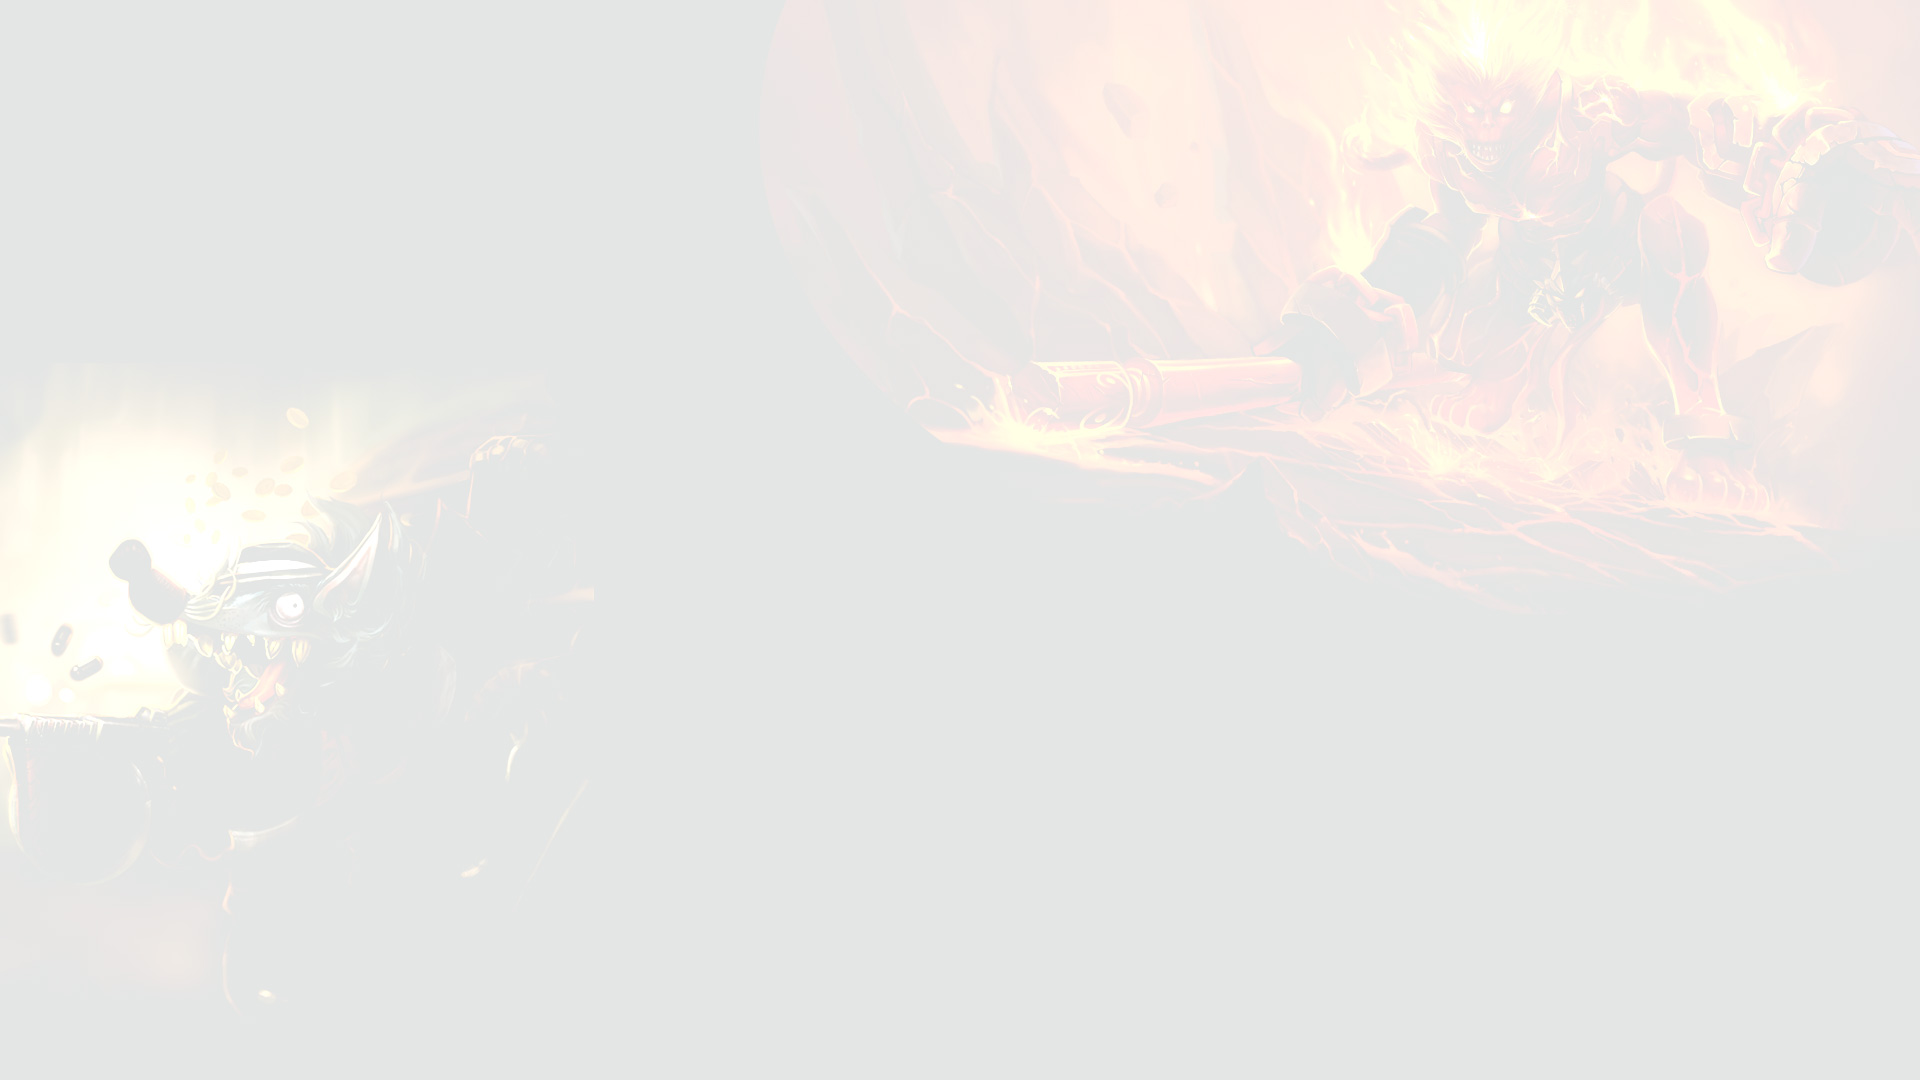
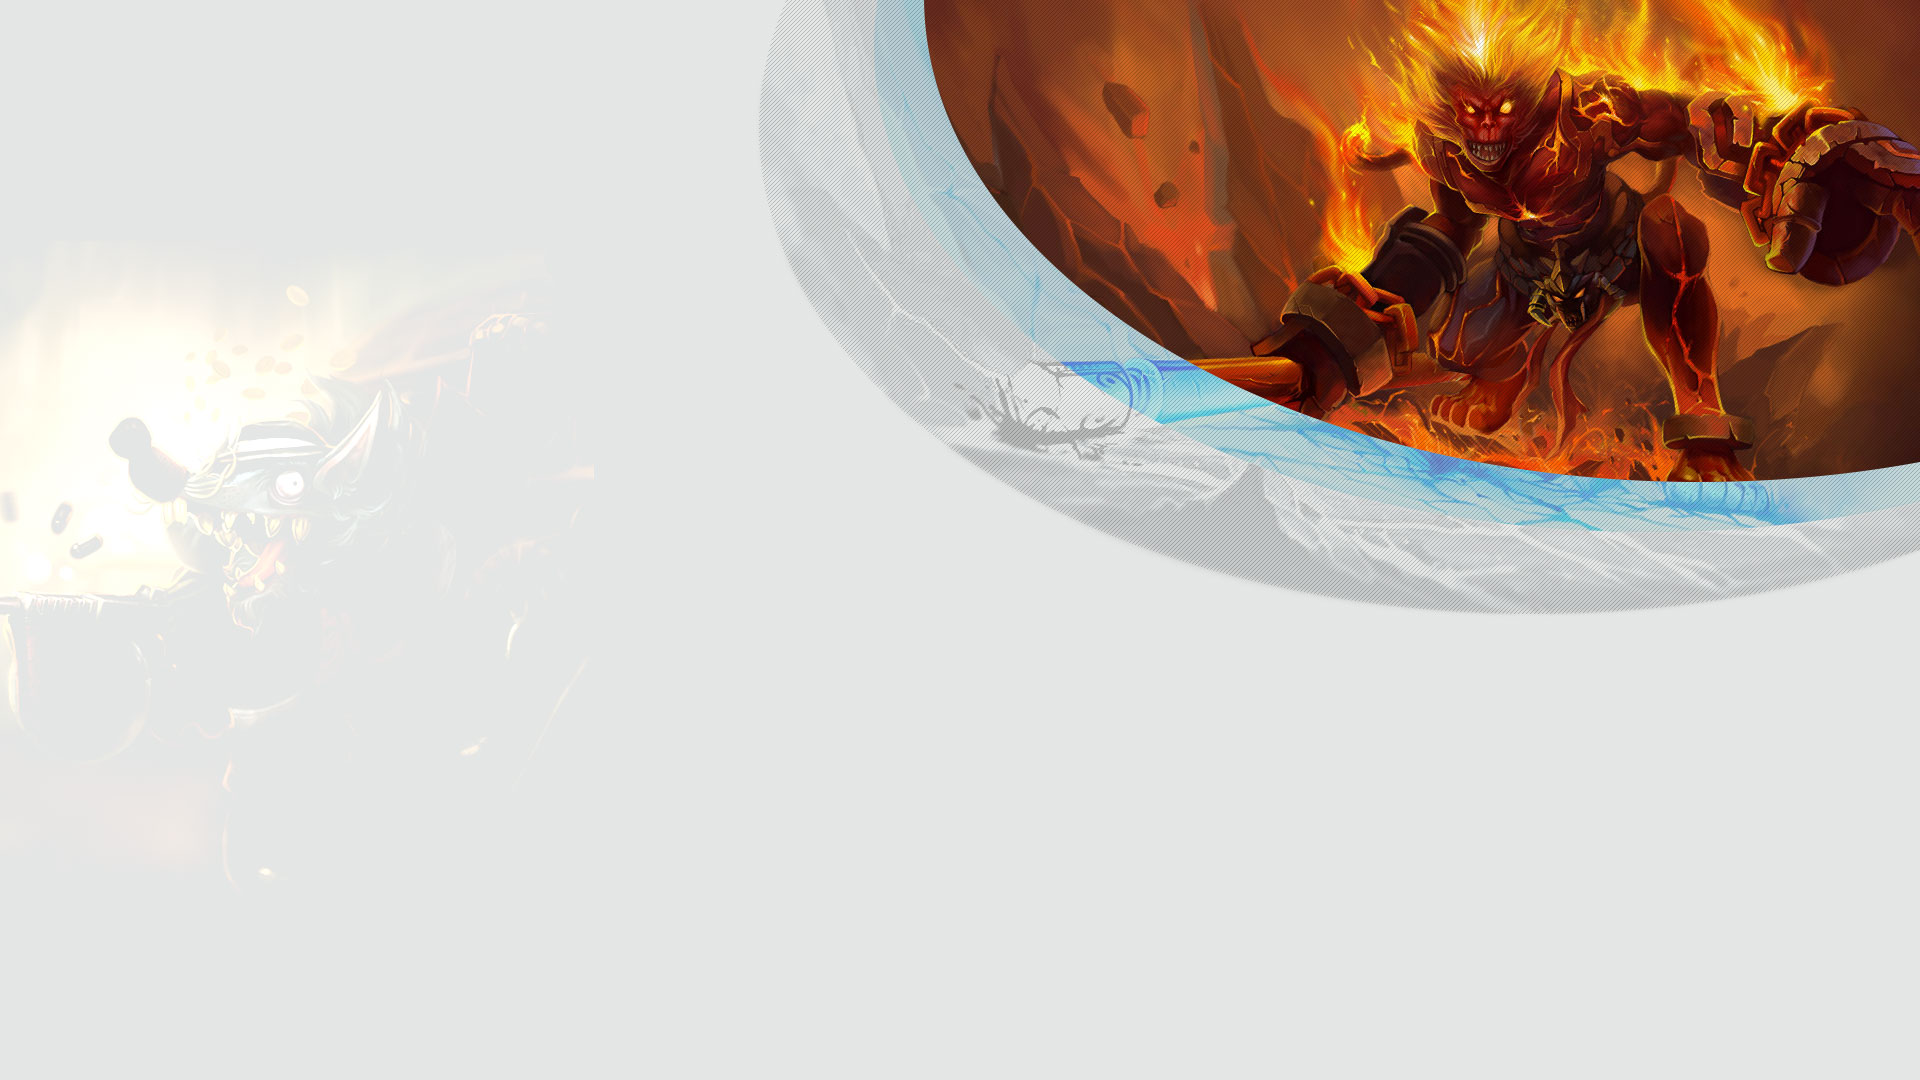
+ Correction d'une faute d'orthographe pour le nombre de commentaire (ajout d'un s seulement si le nombre est >= 2) + Mise à jour du background général du site et mise à jour du style css du layout

diff --git a/web/medias/css/mvnerds-bootstrap.css b/web/medias/css/mvnerds-bootstrap.css
@@ -606,14 +606,22 @@ div.container.header div.social-container,
 div.container.header div.slogan {
   display: inline-block;
 }
-div.container.header div.slogan img {
+div.container.header div.slogan {
+  background-color: rgba(228, 230, 229, 0.8);
+  padding: 0 5px 0 0;
+}
+div.container.header div.slogan a {
+  display: inline-block;
+  vertical-align: top;
+}
+div.container.header div.slogan a img {
   margin: 0 5px 0 0;
 }
 div.container.header div.slogan p {
   display: inline-block;
   line-height: 1.2em;
   margin: 0;
-  padding: 0;
+  padding: 0 5px 0 0;
 }
 div.container.header div.slogan p span.location {
   font-weight: bold;
@@ -625,7 +633,7 @@ div.container.header div.slogan p span.location a:hover {
   text-decoration: underline;
 }
 div.container.header div.slogan span.brand {
-  color: #aaa;
+  color: #666;
 }
 div.container.header div.social-container {
   position: absolute;
@@ -635,13 +643,13 @@ div.container.header div.social-container p div.wrapper-simple {
   display: inline-block;
 }
 div.container.header div.social-container p a {
-  border: 1px solid #999;
-  color: #999;
+  border: 1px solid white;
+  color: white;
   display: inline-block;
   font-size: 18px;
   font-weight: bold;
   height: 27px;
-  margin: 0 0 0 5px;
+  margin: 0;
   padding: 3px;
   text-align: center;
   text-transform: uppercase;
@@ -651,7 +659,6 @@ div.container.header div.social-container p a.twitter-link {
   width: 21px;
 }
 div.container.header div.social-container p a.switch-locale {
-  background-color: #aaa;
   color: #fff;
   padding: 3px 5px;
 }
@@ -703,7 +710,7 @@ div.container.champion-rotation div.champion-rotation-content div.free-champions
 }
 div.container.champion-rotation div.champion-rotation-content div.free-champions a div {
   margin: 0 2px;
-  opacity: .5;
+  opacity: .7;
 }
 div.container.champion-rotation div.champion-rotation-content div.free-champions a div:hover {
   opacity: 1;
@@ -713,11 +720,13 @@ div.container.champion-rotation div.champion-rotation-content div.free-champions
   transition: opacity 0.2s linear;
 }
 div.container.champion-rotation div.champion-search-input {
+  background-color: rgba(228, 230, 229, 0.85);
   position: absolute;
   right: 0;
-  top: 9px;
+  top: 7px;
 }
 div.container.champion-rotation div.champion-search-input input[type="text"] {
+  border: 3px solid #666;
   font-size: 16px;
   padding-right: 26px;
 }
@@ -726,7 +735,7 @@ div.container.champion-rotation div.champion-search-input i {
   font-size: 22px;
   position: absolute;
   right: 6px;
-  top: 2px;
+  top: 4px;
 }
 div#announcement-container {
   border: 1px solid #db4a38;
@@ -737,7 +746,7 @@ div#announcement-container {
   text-align: center;
 }
 div.container.main-container {
-  background-color: rgba(228, 230, 229, 0.5);
+  background-color: rgba(228, 230, 229, 0.85);
   min-height: 438px;
   padding: 20px 10px;
 }

diff --git a/web/medias/less/mvnerds/mvnerds-site-header.less b/web/medias/less/mvnerds/mvnerds-site-header.less
@@ -7,15 +7,23 @@ div.container.header {
 	}
 
 	div.slogan {
-		img {
-			margin: 0 5px 0 0;
+		background-color: rgba(228,230,229,.8);
+		padding: 0 5px 0 0;
+
+		a {
+			display: inline-block;
+			vertical-align: top;
+
+			img {
+				margin: 0 5px 0 0;
+			}
 		}
 
 		p {
 			display: inline-block;
 			line-height: 1.2em;
 			margin: 0;
-			padding: 0;
+			padding: 0 5px 0 0;
 
 			span.location {
 				font-weight: bold;
@@ -31,7 +39,7 @@ div.container.header {
 		}
 
 		span.brand {
-			color: #aaa;
+			color: #666;
 		}
 	}
 
@@ -45,13 +53,13 @@ div.container.header {
 			}
 
 			a {
-				border: 1px solid #999;
-				color: #999;
+				border: 1px solid white;
+				color: white;
 				display: inline-block;
 				font-size: 18px;
 				font-weight: bold;
 				height: 27px;
-				margin: 0 0 0 5px;
+				margin: 0;
 				padding: 3px;
 				text-align: center;
 				text-transform: uppercase;
@@ -61,7 +69,6 @@ div.container.header {
 				}
 
 				&.switch-locale {
-					background-color: #aaa;
 					color: #fff;
 					padding: 3px 5px;
 				}

diff --git a/web/medias/less/mvnerds/mvnerds-champion-rotation.less b/web/medias/less/mvnerds/mvnerds-champion-rotation.less
@@ -24,7 +24,7 @@ div.container.champion-rotation {
 
 					div {
 						margin: 0 2px;
-						opacity: .5;
+						opacity: .7;
 
 						&:hover {
 							opacity: 1; .transition(opacity .2s linear);
@@ -35,11 +35,13 @@ div.container.champion-rotation {
 		}
 
 		&.champion-search-input {
+			background-color: rgba(228,230,229,.85);
 			position: absolute;
 			right: 0;
-			top: 9px;
+			top: 7px;
 
 			input[type="text"] {
+				border: 3px solid #666;
 				font-size: 16px;
 				padding-right: 26px;
 			}
@@ -49,7 +51,7 @@ div.container.champion-rotation {
 				font-size: 22px;
 				position: absolute;
 				right: 6px;
-				top: 2px;
+				top: 4px;
 			}
 		}
 	}

diff --git a/web/medias/less/mvnerds/mvnerds-layout.less b/web/medias/less/mvnerds/mvnerds-layout.less
@@ -8,7 +8,7 @@ div#announcement-container {
 }
 
 div.container.main-container {
-	background-color: rgba(228,230,229,.5);
+	background-color: rgba(228,230,229,.85);
 	min-height: 438px;
 	padding: 20px 10px;
 
